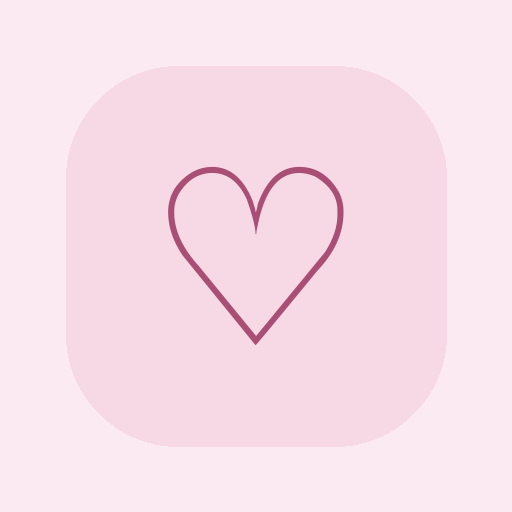
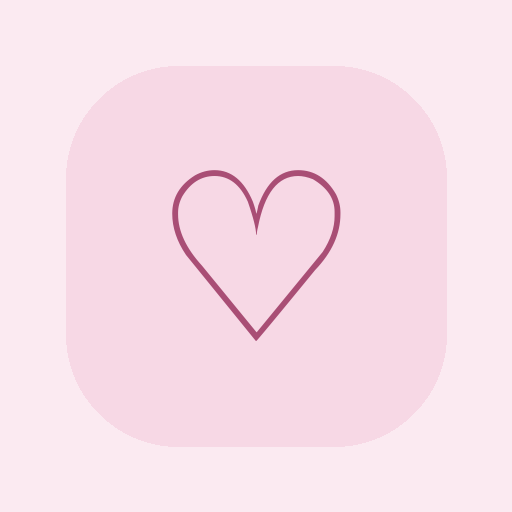
Add files via upload

Changed region(s): [[0.5, 0.3125, 0.6875, 0.625], [0.3125, 0.3125, 0.4688, 0.625], [0.4688, 0.625, 0.5312, 0.6875]]

diff --git a/sw.js b/sw.js
@@ -1,1 +1,1 @@
-const CACHE='meu-financeiro-v1';const FILES=['./','./index.html','./manifest.webmanifest','./icon-192.png','./icon-512.png'];self.addEventListener('install',e=>e.waitUntil(caches.open(CACHE).then(c=>c.addAll(FILES))));self.addEventListener('activate',e=>e.waitUntil(caches.keys().then(keys=>Promise.all(keys.filter(k=>k!==CACHE).map(k=>caches.delete(k))))));self.addEventListener('fetch',e=>{if(e.request.method!=='GET')return;e.respondWith(caches.match(e.request).then(cached=>cached||fetch(e.request).then(res=>{const copy=res.clone();caches.open(CACHE).then(c=>c.put(e.request,copy));return res}).catch(()=>caches.match('./index.html'))))});
+const CACHE='creator-hub-v2';const FILES=['./','./index.html','./manifest.webmanifest','./icon-192.png','./icon-512.png'];self.addEventListener('install',e=>e.waitUntil(caches.open(CACHE).then(c=>c.addAll(FILES))));self.addEventListener('activate',e=>e.waitUntil(caches.keys().then(keys=>Promise.all(keys.filter(k=>k!==CACHE).map(k=>caches.delete(k))))));self.addEventListener('fetch',e=>{if(e.request.method!=='GET')return;e.respondWith(caches.match(e.request).then(cached=>cached||fetch(e.request).then(res=>{let cp=res.clone();caches.open(CACHE).then(c=>c.put(e.request,cp));return res}).catch(()=>caches.match('./index.html'))))});
